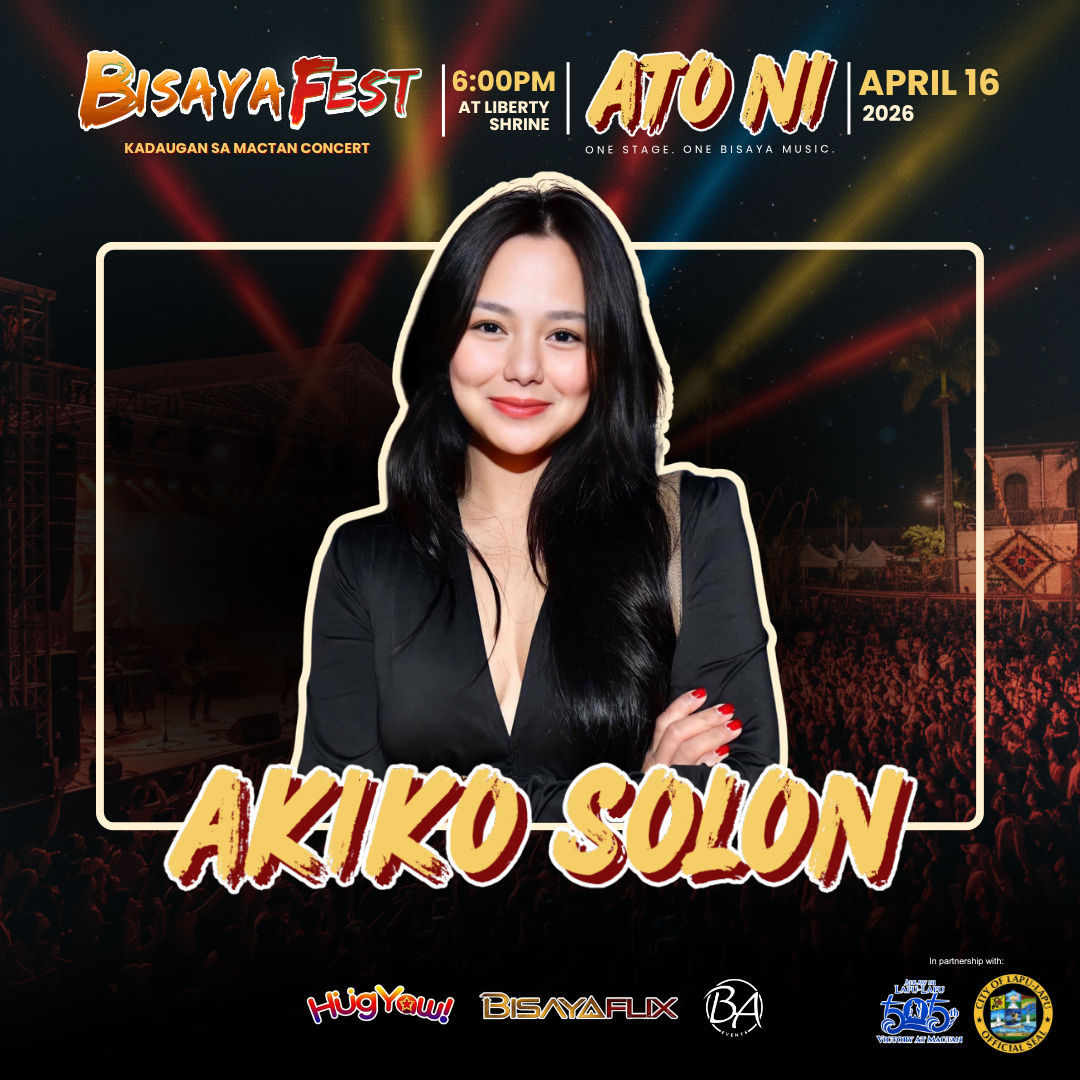
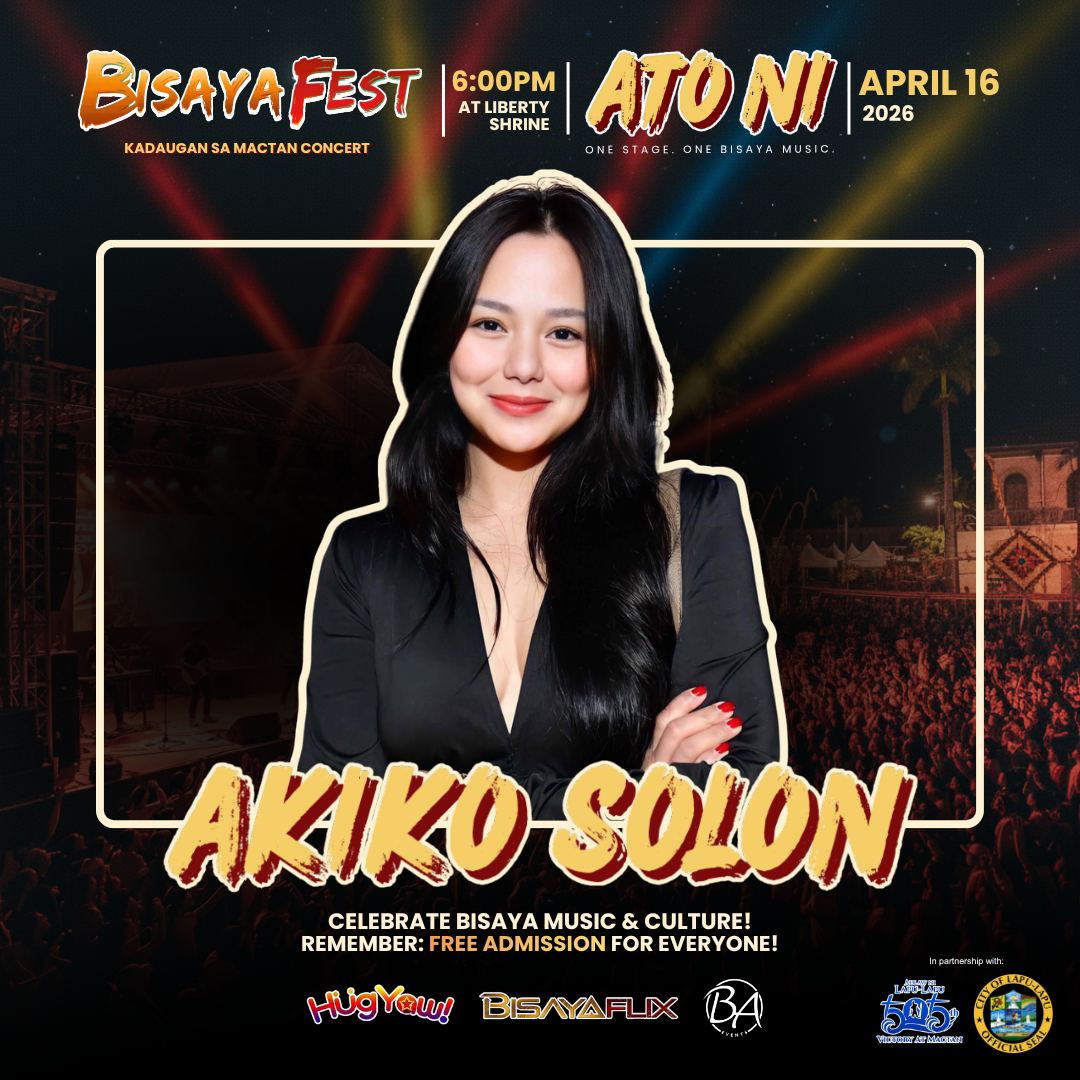
feat: overhaul UI layout, add Giveaway image support, and implement easy slider config

diff --git a/index.html b/index.html
@@ -18,13 +18,10 @@
                 <h1 style="font-size: 2.2rem; margin-bottom: 0.5rem;">BisayaFlix Exclusive Giveaway!</h1>
                 <p style="font-size: 1.1rem; color: #fff; margin-bottom: 1.5rem;">Win exclusive prizes by following these 4 Simple Steps:</p>
                 
-                <!-- NEW: Dynamic Prize Showcase -->
-                <div style="margin-bottom: 2.5rem;">
-                    <h3 style="color: var(--primary-gold); font-size: 0.9rem; text-transform: uppercase; letter-spacing: 2px; margin-bottom: 10px;">🎁 Prizes You Can Win</h3>
-                    <div id="prizes-display" class="prizes-display">
-                        <!-- Dynamically populated -->
-                        <div style="grid-column: 1/-1; color: var(--text-muted); font-size: 0.8rem;">Loading exclusive prizes...</div>
-                    </div>
+                <!-- NEW: Giveaway Image Showcase -->
+                <div style="margin: 1.5rem 0 2.5rem 0;">
+                    <h3 style="color: var(--primary-gold); font-size: 0.9rem; text-transform: uppercase; letter-spacing: 2px; margin-bottom: 20px;">🎁 Prizes You Can Win</h3>
+                    <img src="/Giveaway.png" alt="Prizes Giveaway" style="width: 100%; border-radius: 15px; border: 1px solid var(--glass-border); box-shadow: var(--glow-gold);">
                 </div>
                 
                 <div class="instruction-steps">
@@ -49,29 +46,6 @@
                 <p style="font-size: 0.85rem; margin-top: 1rem; color: var(--primary-gold);">Wait 1 second for the Store to open after clicking!</p>
             </div>
         </section>
-
-        <!-- Highlights Slider (SECOND) -->
-        <section id="highlights" class="card">
-            <h2 style="text-align: center;">Experience Bisaya Cinema</h2>
-            <div class="highlights-slider">
-                <div class="slider-track">
-                    <img src="/cookies.png" alt="Highlight">
-                    <img src="/jayrsiaboc.png" alt="Highlight">
-                    <img src="/midnasty.png" alt="Highlight">
-                    <img src="/mistalefty.png" alt="Highlight">
-                    <img src="/winstonlee.png" alt="Highlight">
-                    <img src="/6.png" alt="Highlight">
-                    <img src="/atoni16specialperformance.png" alt="Highlight">
-                    <img src="/atoni16.png" alt="Highlight">
-                </div>
-            </div>
-        </section>
-
-        <!-- Logo (THIRD) -->
-        <header class="logo-container">
-            <img src="/Bisayaflix-logo.png" alt="BisayaFlix Original Logo">
-            <p>The Home of Bisaya Cinema</p>
-        </header>
 
         <main id="app">
             <!-- Step 2: Registration (Modal) -->
@@ -162,6 +136,22 @@
                     <p style="text-align: center; color: var(--text-muted); padding: 1rem;">No winners yet. Be the first!</p>
                 </div>
             </section>
+
+            <!-- Highlights Slider (Moved Down) -->
+            <section id="highlights" class="card">
+                <h2 style="text-align: center;">Experience Bisaya Cinema</h2>
+                <div class="highlights-slider">
+                    <div id="slider-track" class="slider-track">
+                        <!-- Dynamically populated via SLIDER_CONFIG in main.js -->
+                    </div>
+                </div>
+            </section>
+
+            <!-- Logo (Moved Down) -->
+            <header class="logo-container">
+                <img src="/Bisayaflix-logo.png" alt="BisayaFlix Original Logo">
+                <p>The Home of Bisaya Cinema</p>
+            </header>
         </main>
 
         <section id="faq" class="card">

diff --git a/main.js b/main.js
@@ -7,6 +7,20 @@ const supabaseUrl = import.meta.env.VITE_SUPABASE_URL?.replace(/\/$/, "");
 const supabaseAnonKey = import.meta.env.VITE_SUPABASE_ANON_KEY;
 const supabase = createClient(supabaseUrl, supabaseAnonKey);
 
+// Easy Configuration: Change Slider Photos Here
+const SLIDER_CONFIG = {
+    images: [
+        '/cookies.png',
+        '/jayrsiaboc.png',
+        '/midnasty.png',
+        '/mistalefty.png',
+        '/winstonlee.png',
+        '/6.png',
+        '/atoni16specialperformance.png',
+        '/atoni16.png'
+    ]
+};
+
 // State Management
 let currentStep = 1;
 const state = {
@@ -58,10 +72,11 @@ async function init() {
     console.log("✅ Supabase Connected to:", supabaseUrl);
     
     generateQRCode();
+    renderSlider(); // Render slider from config
     try {
         await fetchInitialEntries();
         await fetchRecentWinners();
-        await fetchPrizes(); // NEW: Load prizes
+        // fetchPrizes(); // Removed in favor of static Giveaway.png
         subscribeToChanges();
         if (canvas) {
             setupCanvas(canvas);
@@ -71,6 +86,21 @@ async function init() {
     } catch (e) {
         console.error("❌ Initialization failed:", e);
     }
+}
+
+function renderSlider() {
+    const track = document.getElementById('slider-track');
+    if (!track) return;
+    
+    // Create the images from config
+    const imagesHtml = SLIDER_CONFIG.images.map(src => `<img src="${src}" alt="Highlight">`).join('');
+    track.innerHTML = imagesHtml;
+    
+    // Adjust track width based on image count
+    track.style.width = `${SLIDER_CONFIG.images.length * 100}%`;
+    
+    // Update CSS animation if needed (though the CSS is hardcoded for 8 images, 
+    // we'll keep it simple for now as per user request to change photos easily)
 }
 
 function setupCanvas(canvas) {
@@ -130,20 +160,8 @@ async function fetchPrizes() {
 }
 
 function renderPrizes(prizes) {
-    const display = document.getElementById('prizes-display');
-    if (!display) return;
-
-    if (prizes.length === 0) {
-        display.innerHTML = '<div style="grid-column: 1/-1; color: var(--text-muted); font-size: 0.8rem;">More prizes coming soon!</div>';
-        return;
-    }
-
-    display.innerHTML = prizes.map(p => `
-        <div class="prize-badge">
-            <div class="icon">🎁</div>
-            <div class="name">${p.name}</div>
-        </div>
-    `).join('');
+    // Disabled: Using static Giveaway.png in index.html
+    return;
 }
 
 function subscribeToChanges() {

diff --git a/public-roulette.html b/public-roulette.html
@@ -28,6 +28,9 @@
         <!-- Left Sidebar: Prizes -->
         <aside class="sidebar-panel">
             <h2 class="sidebar-title">🎁 Prizes To Win</h2>
+            <div style="margin-bottom: 20px; text-align: center;">
+                <img src="/Giveaway.png" alt="Giveaway Prizes" style="width: 100%; border-radius: 12px; border: 1px solid var(--glass-border); box-shadow: var(--glow-gold);">
+            </div>
             <div id="prizes-sidebar-list" class="sidebar-prizes-list">
                 <p style="text-align: center; color: var(--text-muted); font-size: 0.8rem;">Loading prizes...</p>
             </div>
